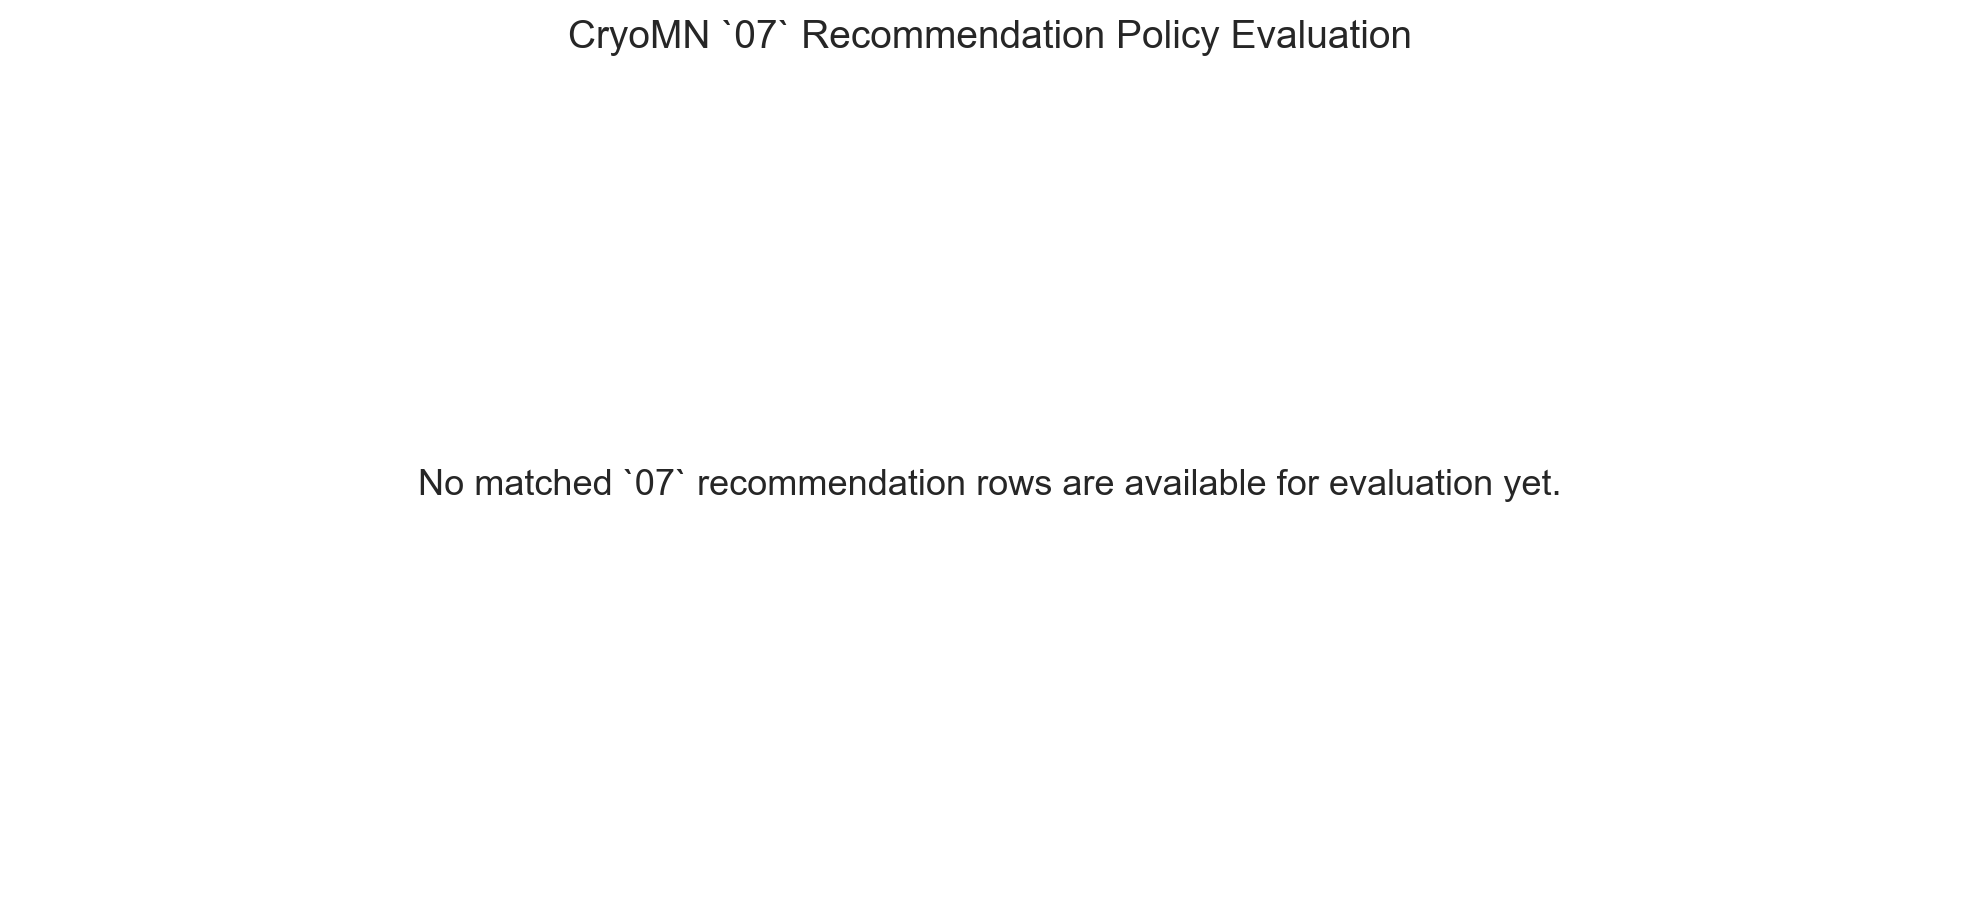
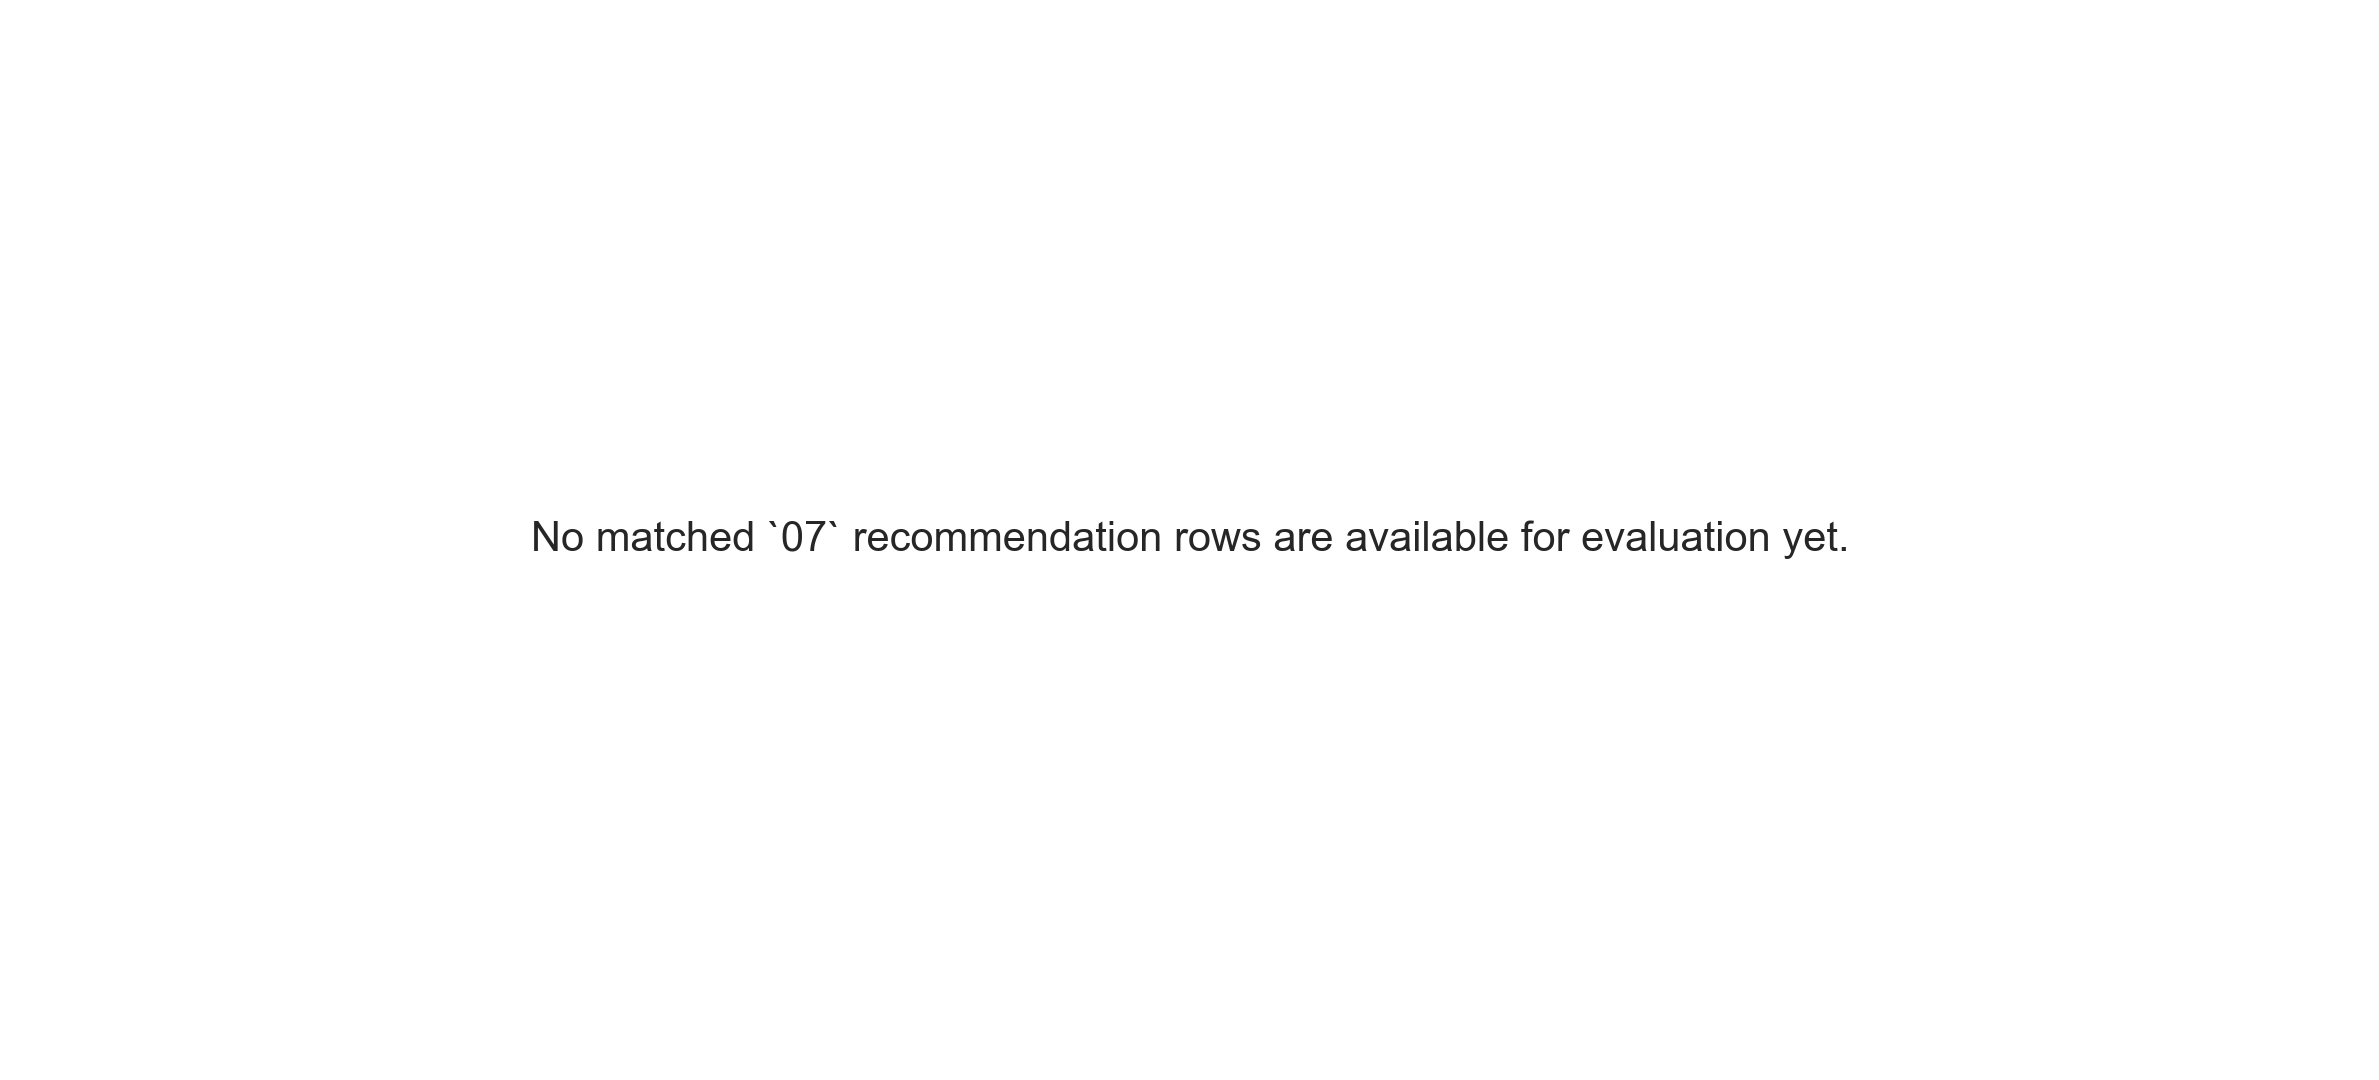
Refactor stage performance plotting to a categorized small-multiples dashboard and update documentation for evaluation metrics and wet-lab cross-validation.

Changed region(s): [[0.2158, 0.4859, 0.8014, 0.5466], [0.2774, 0.0, 0.7089, 0.0607]]

diff --git a/src/06_evaluation_explainability/evaluate_iterations.py b/src/06_evaluation_explainability/evaluate_iterations.py
@@ -818,57 +818,183 @@ def write_outputs(results: Sequence[Dict[str, object]]):
 
 
 def write_performance_plot(results: Sequence[Dict[str, object]]):
-    """Save a compact chart of stage-level evaluation metrics."""
-    stage_results = [
-        result
-        for result in results
-        if result["batch_metrics"]["n_rows"]
-    ]
-    if not stage_results:
+    """Save a categorized small-multiples dashboard of stage-level evaluation metrics."""
+    if not results:
         return
 
-    labels = [result["label"].replace("_", "\n") for result in stage_results]
-    rmse = [result["batch_metrics"]["rmse"] for result in stage_results]
-    spearman = [result["batch_metrics"]["spearman_rho"] for result in stage_results]
-    hit50 = [result["batch_metrics"]["hit_rate_ge_50"] for result in stage_results]
+    stage_results = list(results)
 
-    plt.style.use("seaborn-v0_8-whitegrid")
-    fig, axes = plt.subplots(1, 3, figsize=(13, 4.8))
-    colors = ["#375E97", "#FB6542", "#3F681C"]
+    def display_label(result: Dict[str, object]) -> str:
+        if result["label"] == "literature_only":
+            return "literature\nonly"
+        return str(result["label"]).replace("_", "\n")
 
-    metric_specs = [
-        ("Batch RMSE", rmse, colors[0], "Lower is better"),
-        ("Spearman", spearman, colors[1], "Higher is better"),
-        ("Hit Rate @ 50%", hit50, colors[2], "Higher is better"),
+    labels = [display_label(result) for result in stage_results]
+
+    category_specs = [
+        {
+            "title": "Error Metrics",
+            "subtitle": "Lower is better for RMSE and MAE",
+            "metrics": [
+                ("RMSE", "rmse", 2, "#375E97"),
+                ("MAE", "mae", 2, "#FB6542"),
+            ],
+        },
+        {
+            "title": "Ranking Metrics",
+            "subtitle": "Higher is better",
+            "metrics": [
+                ("Spearman rho", "spearman_rho", 2, "#375E97"),
+                ("Kendall tau", "kendall_tau", 2, "#FB6542"),
+            ],
+        },
+        {
+            "title": "Calibration Metrics",
+            "subtitle": "1σ target = 0.68; uncertainty is diagnostic",
+            "metrics": [
+                ("Mean uncertainty", "mean_uncertainty", 2, "#375E97"),
+                ("Coverage @ 1σ", "coverage_1sigma", 2, "#FB6542"),
+            ],
+        },
+        {
+            "title": "Threshold Decision Metrics",
+            "subtitle": "Higher is better",
+            "metrics": [
+                ("Hit rate @ 50%", "hit_rate_ge_50", 2, "#375E97"),
+                ("Hit rate @ 70%", "hit_rate_ge_70", 2, "#FB6542"),
+            ],
+        },
     ]
 
-    for ax, (title, values, color, subtitle) in zip(axes, metric_specs):
-        bars = ax.bar(labels, values, color=color, width=0.65)
-        ax.set_title(f"{title}\n{subtitle}", fontsize=11)
-        if title == "Spearman":
-            ax.axhline(0.0, color="#444444", linewidth=1, linestyle="--", alpha=0.7)
-            ax.set_ylim(min(-0.6, min(values) - 0.1), max(0.3, max(values) + 0.1))
-        elif title == "Hit Rate @ 50%":
-            ax.set_ylim(0.0, 1.05)
-        else:
-            ax.set_ylim(0.0, max(values) * 1.2)
-        ax.tick_params(axis="x", labelrotation=0)
-        for bar, value in zip(bars, values):
-            offset = 0.02 if title != "Batch RMSE" else max(values) * 0.03
-            y = value + offset if value >= 0 else value - 0.08
-            va = "bottom" if value >= 0 else "top"
-            ax.text(
-                bar.get_x() + bar.get_width() / 2,
-                y,
-                f"{value:.2f}",
-                ha="center",
-                va=va,
-                fontsize=9,
+    def format_cell(value: float, digits: int) -> str:
+        if value is None or not math.isfinite(float(value)):
+            return "N/A"
+        return f"{float(value):.{digits}f}"
+
+    stage_colors = ["#9ecae1", "#fbb4ae", "#ccebc5", "#decbe4", "#fed9a6", "#e0e0e0"]
+
+    plt.style.use("seaborn-v0_8-whitegrid")
+    max_cols = max(len(category["metrics"]) for category in category_specs)
+    fig = plt.figure(figsize=(22, 28))
+    outer = fig.add_gridspec(len(category_specs), 1, hspace=0.33)
+
+    for row_idx, category in enumerate(category_specs):
+        inner = outer[row_idx].subgridspec(
+            2,
+            max_cols,
+            height_ratios=[0.22, 1.0],
+            hspace=0.12,
+            wspace=0.34,
+        )
+        title_ax = fig.add_subplot(inner[0, :])
+        title_ax.axis("off")
+        title_ax.text(
+            0.5,
+            1.0,
+            category["title"],
+            ha="center",
+            va="bottom",
+            fontsize=32,
+            fontweight="bold",
+        )
+        title_ax.text(
+            0.5,
+            0.52,
+            category["subtitle"],
+            ha="center",
+            va="bottom",
+            fontsize=24,
+            fontweight="semibold",
+        )
+
+        for col_idx in range(max_cols):
+            ax = fig.add_subplot(inner[1, col_idx])
+            if col_idx >= len(category["metrics"]):
+                ax.axis("off")
+                continue
+
+            metric_label, metric_key, digits, _color = category["metrics"][col_idx]
+            values = np.array(
+                [result["batch_metrics"].get(metric_key) for result in stage_results],
+                dtype=float,
+            )
+            x = np.arange(len(labels))
+            finite_mask = np.isfinite(values)
+            bar_colors = [
+                stage_colors[idx] if is_finite else "#cfcfcf"
+                for idx, is_finite in enumerate(finite_mask)
+            ]
+            heights = np.where(finite_mask, values, 0.0)
+            bars = ax.bar(
+                x,
+                heights,
+                color=bar_colors,
+                edgecolor="#444444",
+                linewidth=0.6,
             )
 
-    fig.suptitle("CryoMN Stage-Based Model Evaluation", fontsize=14, y=1.02)
-    fig.tight_layout()
-    fig.savefig(PLOT_PATH, dpi=200, bbox_inches="tight")
+            finite_values = values[finite_mask]
+            if finite_values.size:
+                minimum = float(np.min(finite_values))
+                maximum = float(np.max(finite_values))
+                if minimum >= 0.0:
+                    upper = maximum * 1.18 if maximum > 0 else 1.0
+                    lower = 0.0
+                else:
+                    padding = max((maximum - minimum) * 0.18, 0.25)
+                    lower = minimum - padding
+                    upper = maximum + padding
+                if math.isclose(lower, upper):
+                    upper = lower + 1.0
+                ax.set_ylim(lower, upper)
+                if lower < 0 < upper:
+                    ax.axhline(0.0, color="#444444", linewidth=1, linestyle="--", alpha=0.7)
+                offset = 0.04 * (upper - lower)
+                inner_pad = 0.06 * (upper - lower)
+            else:
+                ax.set_ylim(0.0, 1.0)
+                offset = 0.05
+                inner_pad = 0.08
+
+            for bar, value, is_finite in zip(bars, values, finite_mask):
+                if is_finite:
+                    if value >= 0:
+                        y = min(value + offset, upper - inner_pad)
+                        va = "bottom"
+                    else:
+                        y = max(value - offset, lower + inner_pad)
+                        va = "top"
+                    label = format_cell(value, digits)
+                else:
+                    y = lower + inner_pad
+                    va = "bottom"
+                    label = "N/A"
+                ax.text(
+                    bar.get_x() + bar.get_width() / 2,
+                    y,
+                    label,
+                    ha="center",
+                    va=va,
+                    fontsize=19,
+                    fontweight="semibold",
+                    clip_on=True,
+                    bbox={
+                        "boxstyle": "round,pad=0.15",
+                        "facecolor": "none",
+                        "edgecolor": "none",
+                        "alpha": 0.75,
+                    },
+                )
+
+            ax.set_title(metric_label, fontsize=24, pad=14, fontweight="semibold")
+            ax.set_xticks(x)
+            ax.set_xticklabels(labels, fontsize=19, fontweight="bold")
+            ax.tick_params(axis="y", labelsize=19)
+            for tick_label in ax.get_yticklabels():
+                tick_label.set_fontweight("bold")
+
+    fig.subplots_adjust(top=0.98, bottom=0.03, left=0.06, right=0.98)
+    fig.savefig(PLOT_PATH, dpi=200, bbox_inches="tight", transparent=True)
     plt.close(fig)
 
 
@@ -894,7 +1020,7 @@ def write_next_formulations_plot(results: Sequence[Dict[str, object]]):
 
     plt.style.use("seaborn-v0_8-whitegrid")
     if not plot_rows:
-        fig, ax = plt.subplots(figsize=(10, 4.8))
+        fig, ax = plt.subplots(figsize=(12, 5.5))
         ax.axis("off")
         ax.text(
             0.5,
@@ -902,15 +1028,14 @@ def write_next_formulations_plot(results: Sequence[Dict[str, object]]):
             "No matched `07` recommendation rows are available for evaluation yet.",
             ha="center",
             va="center",
-            fontsize=13,
+            fontsize=15,
         )
-        fig.suptitle("CryoMN `07` Recommendation Policy Evaluation", fontsize=14, y=0.95)
         fig.tight_layout()
         fig.savefig(NEXT_FORMULATIONS_PLOT_PATH, dpi=200, bbox_inches="tight")
         plt.close(fig)
         return
 
-    fig, axes = plt.subplots(2, 2, figsize=(13.5, 8.5))
+    fig, axes = plt.subplots(2, 2, figsize=(16, 12))
     axes = axes.flatten()
     colors = {"exploit": "#1f6aa5", "explore": "#d66a1f"}
     labels = [row["label"] for row in plot_rows]
@@ -936,8 +1061,10 @@ def write_next_formulations_plot(results: Sequence[Dict[str, object]]):
 
         exploit_bars = ax.bar(x - width / 2, exploit_values, width=width, color=colors["exploit"], label="Exploit")
         explore_bars = ax.bar(x + width / 2, explore_values, width=width, color=colors["explore"], label="Explore")
-        ax.set_title(title, fontsize=11)
+        ax.set_title(title, fontsize=19, fontweight="semibold", pad=12)
         ax.set_xticks(x, labels)
+        ax.tick_params(axis="x", labelsize=17)
+        ax.tick_params(axis="y", labelsize=17)
 
         if "Residual" in title:
             ax.axhline(0.0, color="#444444", linewidth=1, linestyle="--", alpha=0.8)
@@ -976,13 +1103,14 @@ def write_next_formulations_plot(results: Sequence[Dict[str, object]]):
                     f"{value:.2f}",
                     ha="center",
                     va=va,
-                    fontsize=8.5,
+                    fontsize=16,
+                    fontweight="semibold",
                 )
 
-    axes[0].legend(frameon=False, loc="upper left")
-    fig.suptitle("CryoMN `07` Recommendation Policy Evaluation", fontsize=14, y=0.98)
-    fig.tight_layout(rect=[0, 0, 1, 0.96])
-    fig.savefig(NEXT_FORMULATIONS_PLOT_PATH, dpi=200, bbox_inches="tight")
+    for ax in axes:
+        ax.legend(frameon=False, loc="upper left", fontsize=17)
+    fig.tight_layout()
+    fig.savefig(NEXT_FORMULATIONS_PLOT_PATH, dpi=200, bbox_inches="tight", transparent=True)
     plt.close(fig)
 
 

diff --git a/README.md b/README.md
@@ -89,6 +89,9 @@ by completed wet-lab stages.
 - `03_optimization`, `05_bo_optimization`, and `06_evaluation_explainability` all load the same iteration-aware observed context, and reconstruct it from literature + validation inputs on demand if the artifact is missing.
 - `05_bo_optimization` uses analytic wet-lab weights from the observed context when calibrating BO support geometry, instead of relying on literal duplicate rows.
 - `03`, `05`, `06`, and `07` share a practical concentration floor for formulation identity: values below `0.1%` or below `1.0 mM` are treated as absent when generating candidates, matching hits, and rendering formulation strings.
+- The repository does not rely on one permanent static train/test split. The update scripts estimate wet-lab generalization with K-fold cross-validation over wet-lab rows only, while retaining all literature rows in training for every fold.
+- In code, the wet-lab fold count is `min(5, len(X_val))` with `shuffle=True` and `random_state=42`. In the saved iterations in this repo that behaves as 5-fold CV, because every completed wet-lab stage has at least 5 measured rows.
+- For the standard update, each fold trains on `literature + wetlab_train_fold` and predicts the held-out wet-lab fold. The weighted-simple update uses the same split but duplicates the training-fold wet-lab rows, and the prior-mean update keeps the literature GP fixed while cross-validating only the wet-lab residual correction GP.
 
 ## Results Snapshot
 
@@ -167,7 +170,7 @@ model output against the wet-lab batch it actually generated:
 - `iteration_1_*` outputs → `EXP1101` to `EXP1206`
 - `iteration_2_*` outputs → `EXP2101` to `EXP2106`
 - `iteration_3_*` outputs → `EXP3101` to `EXP3108`
-- `iteration_4_*` outputs → `EXP4101` to `EXP4112`
+- `iteration_4_*` outputs → `EXP4101` to `EXP4106`
 - `iteration_5_*` outputs → pending wet-lab results
 
 Run:
@@ -195,7 +198,7 @@ Stage-level metrics from the saved evaluation artifacts:
 | Iteration 1 | `EXP1101-EXP1206` | 11 | 21.67 | -0.518 | 0.909 |
 | Iteration 2 | `EXP2101-EXP2106` | 6 | 14.74 | 0.086 | 0.667 |
 | Iteration 3 | `EXP3101-EXP3108` | 8 | 21.05 | 0.476 | 0.625 |
-| Iteration 4 | `EXP4101-EXP4112` | 12 | 9.24 | -0.600 | 0.833 |
+| Iteration 4 | `EXP4101-EXP4106` | 6 | 9.24 | -0.600 | 1.000 |
 | Iteration 5 | pending wet-lab results | 0 | N/A | N/A | N/A |
 
 Interpretation:

diff --git a/src/04_validation_loop/README.md b/src/04_validation_loop/README.md
@@ -119,6 +119,24 @@ The update scripts here still train on raw wet-lab numeric concentrations. The
 practical concentration floor used by `05`, `06`, and `07` changes candidate
 generation and formulation identity matching, not the retraining inputs.
 
+## Wet-Lab Cross-Validation
+
+The update scripts do not use one permanent static train/test split. Instead,
+they estimate wet-lab generalization by cross-validating the wet-lab rows while
+always retaining the literature rows in fold training.
+
+Implementation details:
+
+- fold count is `min(5, len(X_val))`
+- `KFold` uses `shuffle=True` and `random_state=42`
+- if fewer than 2 wet-lab rows are available, `validation_rmse` is reported as `NaN`
+
+Per method:
+
+- standard update: each fold trains on `literature + wetlab_train_fold` and predicts the held-out wet-lab fold
+- weighted-simple update: same split, but the training-fold wet-lab rows are duplicated according to the selected weight multiplier before fitting
+- prior-mean correction update: the literature GP stays fixed, literature predictions are computed for all wet-lab rows, and only the wet-lab residual correction GP is cross-validated across the wet-lab folds
+
 ### ⚠ Before Running Any Update Script
 
 > **These scripts overwrite the active model in `models/`.** Run them on a branch or commit your working tree first so you have a clean rollback point.
@@ -211,6 +229,6 @@ Each iteration is logged with:
 - Iteration number and iteration directory
 - Model method and whether the model is composite
 - Number of validation samples
-- Wet-lab cross-validated RMSE (`validation_rmse`)
+- Wet-lab cross-validated RMSE (`validation_rmse`), computed from the wet-lab-only K-fold procedure described above
 - Wet-lab in-sample RMSE (`wetlab_train_rmse` in model metadata)
 - Weighting method and parameters

diff --git a/src/06_evaluation_explainability/README.md b/src/06_evaluation_explainability/README.md
@@ -62,6 +62,18 @@ The evaluator reports:
 - candidate-rank cross references showing which frozen candidate rows were later tested in wet lab
 - recommendation-slate evaluation for `results/next_formulations/<iteration_tag>/next_formulations.csv`, including exploit/explore and origin-level summaries when those files exist
 
+`stage_performance.png` is a categorized small-multiples dashboard rather than
+a 3-metric summary chart. It groups stage metrics into:
+
+- error: RMSE and MAE
+- ranking: Spearman rho and Kendall tau
+- calibration: mean uncertainty and coverage @ 1σ
+- threshold decision: hit rate @ 50% and hit rate @ 70%
+
+Each metric gets its own raw-value bar-chart subplot, with the category
+groupings preserved in the overall layout. Missing stages render as `N/A`
+annotations instead of bars.
+
 Candidate-hit matching uses the same practical concentration floor as `05` and
 `07`:
 
